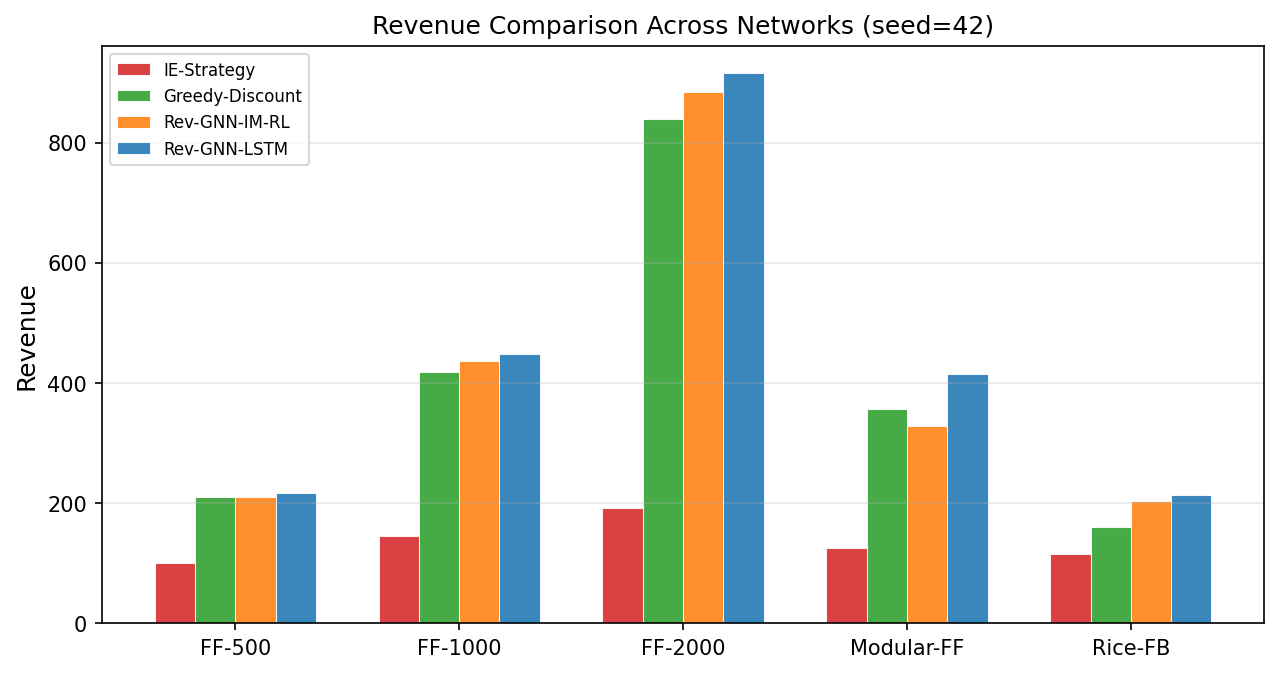
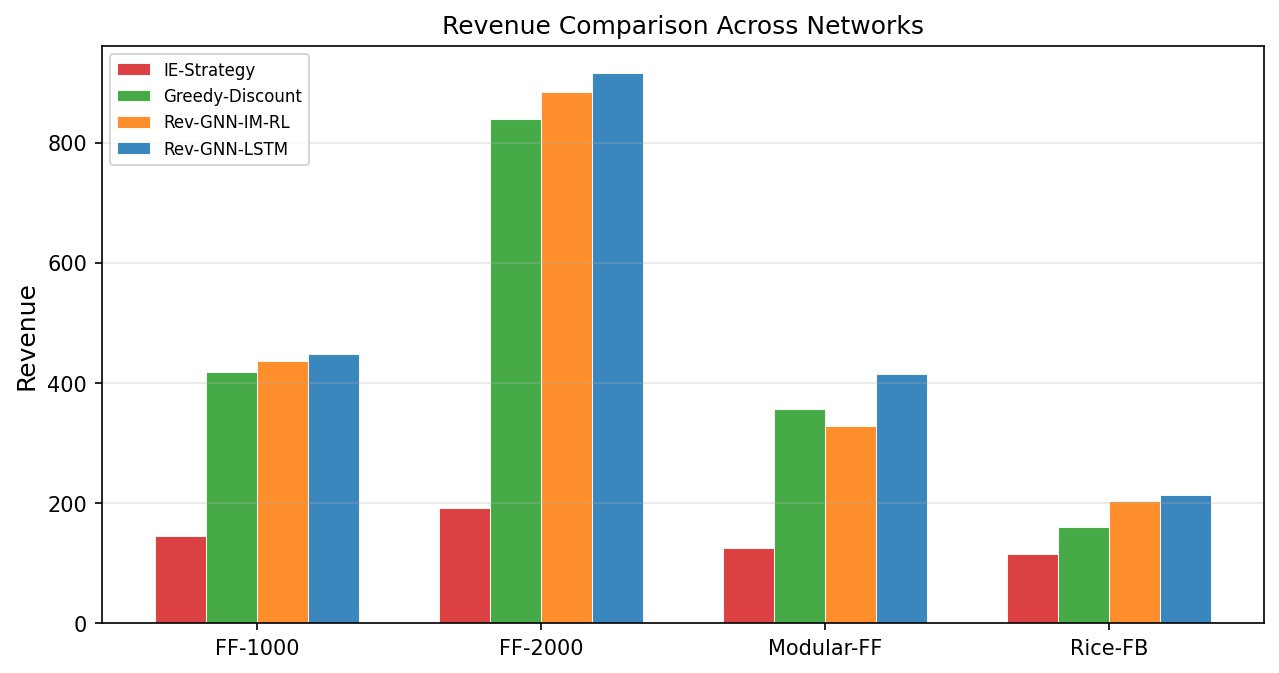
c1_bar_comparison: remove FF-500, remove seed=42 from title

diff --git a/c1_core/experiments/plot_paper_gen_comparison.py b/c1_core/experiments/plot_paper_gen_comparison.py
@@ -39,7 +39,7 @@ d = json.load(open(DATA))
 
 
 # ── Figure 1: Grouped bar chart (all 5 networks) ──────────────────────────────
-networks = list(d.keys())
+networks = [n for n in d.keys() if n != "FF n=500"]
 methods  = list(METHOD_STYLE.keys())
 x        = np.arange(len(networks))
 w        = 0.18
@@ -53,11 +53,11 @@ for i, m in enumerate(methods):
     ax1.bar(x + offsets[i], vals, width=w, color=st["color"],
             label=st["label"], alpha=0.88, edgecolor="white", linewidth=0.5)
 
-short_labels = ["FF-500", "FF-1000", "FF-2000", "Modular-FF", "Rice-FB"]
+short_labels = ["FF-1000", "FF-2000", "Modular-FF", "Rice-FB"]
 ax1.set_xticks(x)
 ax1.set_xticklabels(short_labels, fontsize=10)
 ax1.set_ylabel("Revenue", fontsize=12)
-ax1.set_title("Revenue Comparison Across Networks (seed=42)", fontsize=12)
+ax1.set_title("Revenue Comparison Across Networks", fontsize=12)
 ax1.legend(fontsize=8, loc="upper left")
 ax1.grid(axis="y", alpha=0.3)
 ax1.set_ylim(bottom=0)
